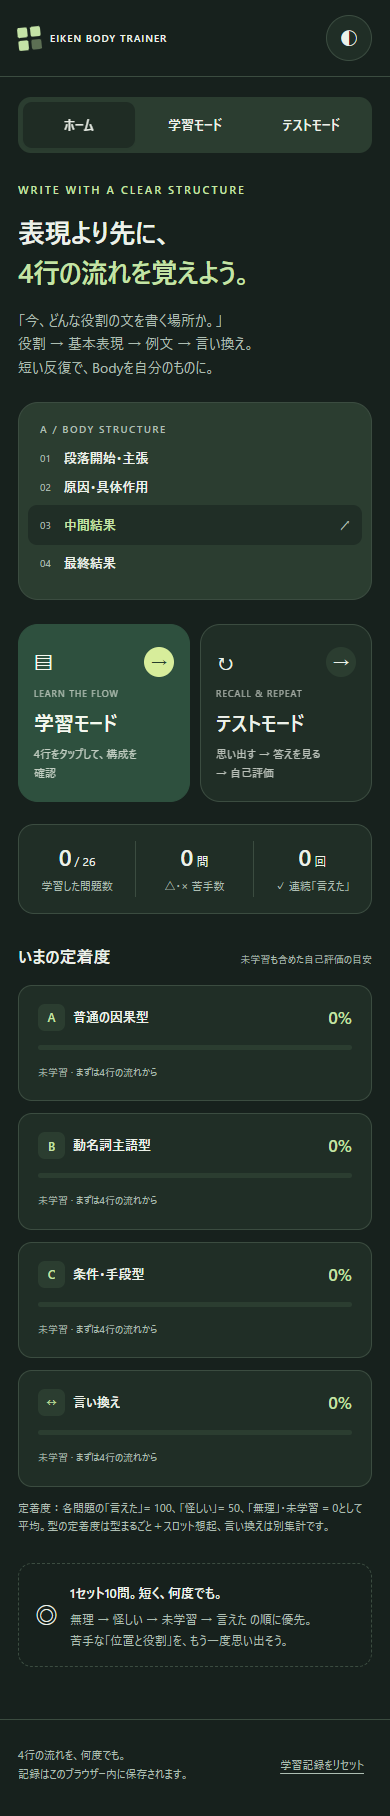
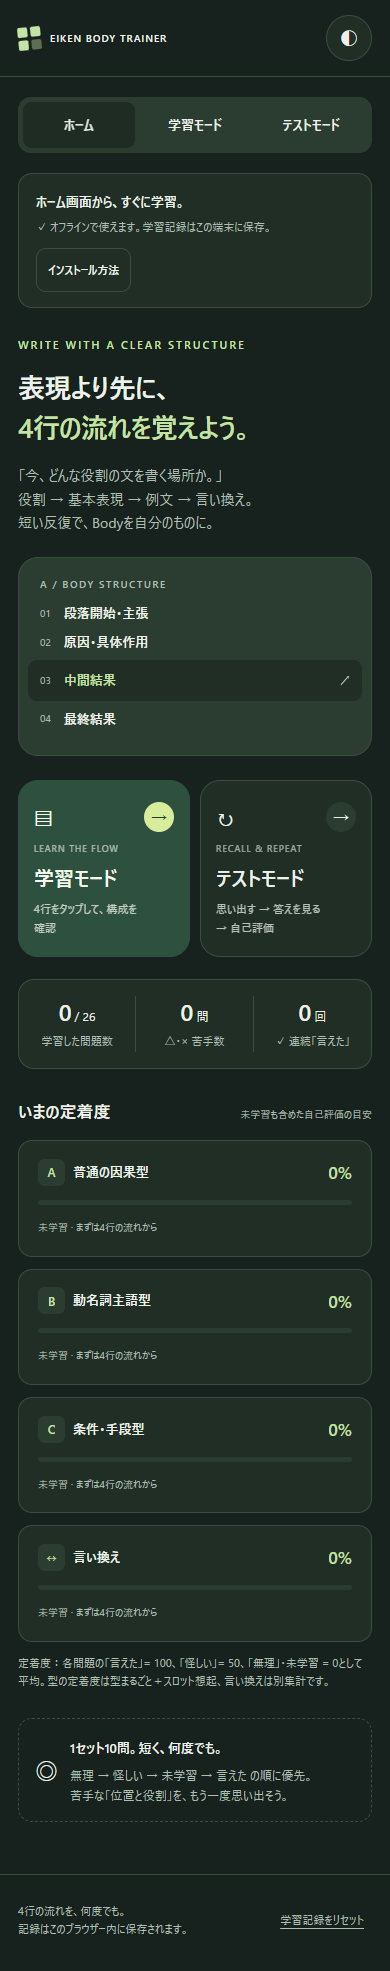
Add installable PWA with offline learning and safe updates

diff --git a/index.html b/index.html
@@ -4,12 +4,19 @@
 <meta charset="utf-8">
 <meta name="viewport" content="width=device-width, initial-scale=1">
 <meta name="color-scheme" content="light dark">
+<meta name="theme-color" content="#355e49">
+<meta name="apple-mobile-web-app-capable" content="yes">
+<meta name="apple-mobile-web-app-title" content="Body Trainer">
+<link rel="manifest" href="./manifest.webmanifest">
+<link rel="icon" type="image/png" href="./icons/icon-192.png">
+<link rel="apple-touch-icon" href="./icons/apple-touch-icon.png">
 <title>EIKEN BODY TRAINER — 役割から、思い出す。</title>
 <style>
 :root{--bg:#f5f6f1;--surface:#fff;--ink:#23372f;--muted:#64746c;--line:#dce3d9;--accent:#355e49;--soft:#eaf0e5;--lime:#d7ed9b;--orange:#bd6733;--shadow:0 8px 28px #24372b06;--danger:#b3423c;--radius:20px;color-scheme:light}
 @media(prefers-color-scheme:dark){:root:not([data-theme=light]){--bg:#17211d;--surface:#202e26;--ink:#ecf1e9;--muted:#adbeb2;--line:#3b4c40;--accent:#c4e3a6;--soft:#2b3d30;--lime:#d7ed9b;--orange:#efb17d;--shadow:none;--danger:#ffaaa3;color-scheme:dark}}
 :root[data-theme=dark]{--bg:#17211d;--surface:#202e26;--ink:#ecf1e9;--muted:#adbeb2;--line:#3b4c40;--accent:#c4e3a6;--soft:#2b3d30;--lime:#d7ed9b;--orange:#efb17d;--shadow:none;--danger:#ffaaa3;color-scheme:dark}
 *{box-sizing:border-box}body{margin:0;background:var(--bg);color:var(--ink);font-family:system-ui,-apple-system,"Segoe UI","Yu Gothic",sans-serif;font-size:15px;line-height:1.7}button,select{font:inherit}button{cursor:pointer;color:inherit}button:disabled{cursor:default;opacity:.5}button:focus-visible,select:focus-visible,summary:focus-visible{outline:3px solid var(--orange);outline-offset:4px}button,select{touch-action:manipulation}button{min-height:46px}button:hover{filter:brightness(.96)}[hidden]{display:none!important}.wrap{max-width:980px;margin:auto;padding:0 28px}header{border-bottom:1px solid var(--line)}.header{display:flex;align-items:center;justify-content:space-between;gap:12px;min-height:89px}.brand{display:flex;gap:12px;align-items:center;font-size:13px;font-weight:800;letter-spacing:1.5px;background:none;border:0;padding:0;text-align:left}.mark{display:grid;grid-template-columns:repeat(2,10px);gap:3px;transform:rotate(-6deg)}.mark i{width:10px;height:10px;border-radius:2px;background:var(--accent)}.mark i:last-child{opacity:.4}.header-end{display:flex;align-items:center;gap:15px}.offline{font-size:11px;letter-spacing:1px;color:var(--muted)}.offline:before{content:'●';color:var(--accent);margin-right:7px}.icon-btn{border:1px solid var(--line);border-radius:50%;width:46px;background:var(--surface);font-size:18px}.navigation{display:flex;gap:4px;background:var(--soft);padding:5px;border-radius:13px;width:fit-content;margin:26px 0 0}.navigation button{border:0;background:transparent;border-radius:9px;padding:7px 23px;font-size:13px;font-weight:650}.navigation button[aria-current=page]{background:var(--surface);box-shadow:0 2px 8px #00000007}main{padding:34px 0 52px}.eyebrow{font-size:11px;font-weight:700;letter-spacing:2px;color:var(--accent);margin:0 0 12px}.hero{display:grid;grid-template-columns:1.45fr 1fr;gap:40px;align-items:center;margin:0 0 30px}.hero h1{font-size:clamp(27px,4.5vw,40px);line-height:1.5;letter-spacing:-1.4px;margin:0 0 16px}.hero h1 span{color:var(--accent)}.muted{color:var(--muted)}.hero p:not(.eyebrow){margin:0;color:var(--muted);font-size:14px}.mini-body{background:var(--soft);border:1px solid var(--line);border-radius:var(--radius);padding:23px 24px;position:relative}.mini-label{font-size:10px;letter-spacing:1.5px;font-weight:700;color:var(--muted);margin-bottom:16px}.mini-line{display:flex;align-items:center;gap:13px;margin:11px 0;font-size:13px}.mini-line span{font-size:10px;color:var(--muted);font-variant-numeric:tabular-nums}.mini-line strong{font-weight:550}.mini-line em{height:8px;background:var(--line);border-radius:5px;width:50%;display:block}.mini-line.active{padding:9px 12px;background:var(--surface);border-radius:9px;margin-inline:-12px}.mini-line.active strong{color:var(--accent)}.section-title{display:flex;align-items:baseline;justify-content:space-between;gap:10px;margin:28px 0 14px}.section-title h2{font-size:17px;margin:0}.section-title span{font-size:12px;color:var(--muted)}.mode-grid{display:grid;grid-template-columns:1fr 1fr;gap:16px}.mode-card{border:1px solid var(--line);border-radius:var(--radius);padding:24px;text-align:left;background:var(--surface);box-shadow:var(--shadow);display:grid;grid-template-columns:1fr auto;gap:5px 16px}.mode-card.primary{background:#2e503e;color:#f5f9ef;border-color:#2e503e}.mode-card .mode-icon{font-size:22px;grid-column:1}.mode-card .kicker{font-size:10px;letter-spacing:1.8px;opacity:.65;grid-column:1}.mode-card strong{font-size:23px;grid-column:1}.mode-card .desc{font-size:13px;opacity:.75;grid-column:1}.mode-card .arrow{grid-column:2;grid-row:1/5;align-self:center;background:var(--soft);border-radius:50%;width:39px;height:39px;display:grid;place-items:center;font-size:20px}.mode-card.primary .arrow{background:var(--lime);color:#263d2d}.stats{display:grid;grid-template-columns:repeat(3,1fr);gap:0;margin:28px 0;border:1px solid var(--line);border-radius:16px;background:var(--surface);padding:18px 0}.stat{text-align:center;border-right:1px solid var(--line)}.stat:last-child{border:0}.stat strong{font-size:25px;font-weight:700;display:block;line-height:1.35}.stat strong small{font-size:12px;font-weight:400;margin-left:3px}.stat span{font-size:11px;color:var(--muted)}.mastery-grid{display:grid;grid-template-columns:repeat(2,1fr);gap:12px}.mastery-card{border:1px solid var(--line);background:var(--surface);border-radius:14px;padding:17px 19px}.mastery-top{display:flex;justify-content:space-between;align-items:center;gap:8px}.mastery-name{font-size:13px;font-weight:600}.letter{display:inline-grid;place-items:center;background:var(--soft);color:var(--accent);width:27px;height:27px;border-radius:7px;margin-right:8px;font-weight:700;font-size:12px}.mastery-top strong{font-size:17px;color:var(--accent)}.bar{height:5px;background:var(--soft);border-radius:5px;overflow:hidden;margin:13px 0 8px}.bar span{height:100%;display:block;background:var(--accent);border-radius:5px}.mastery-card small{font-size:10px;color:var(--muted)}.method{margin:27px 0 0;padding:20px;border:1px dashed var(--line);border-radius:14px;display:flex;gap:18px;align-items:center}.method .big{font-size:23px}.method strong{font-size:13px}.method p{margin:4px 0 0;color:var(--muted);font-size:12px}.page-head{margin-bottom:22px}.page-head h1{font-size:28px;margin:0 0 7px;letter-spacing:-.5px}.page-head p{margin:0;font-size:13px;color:var(--muted)}.pattern{background:var(--surface);border:1px solid var(--line);border-radius:var(--radius);margin-bottom:14px;overflow:hidden;box-shadow:var(--shadow)}.pattern-toggle{width:100%;border:0;background:transparent;display:flex;align-items:center;justify-content:space-between;text-align:left;padding:22px;gap:10px}.pattern-toggle .letter{width:40px;height:40px;font-size:17px;border-radius:11px;margin:0 14px 0 0}.pattern-toggle .title{display:flex;align-items:center}.pattern-toggle strong{font-size:19px}.pattern-toggle small{display:block;font-size:11px;color:var(--muted);font-weight:400}.chevron{color:var(--muted);font-size:22px}.pattern-content{padding:0 22px 23px}.flow{display:flex;align-items:center;gap:8px;flex-wrap:wrap;font-size:12px;background:var(--soft);border-radius:11px;padding:15px;margin:0 0 17px}.flow .flow-number{display:inline-block;font-size:10px;color:var(--muted);margin-right:5px}.flow .flow-arrow{color:var(--muted)}.tools{display:flex;gap:8px;flex-wrap:wrap;margin:16px 0}.btn{border:1px solid var(--line);border-radius:10px;padding:8px 14px;background:var(--surface);font-size:12px;font-weight:600}.btn.solid{background:var(--accent);color:var(--bg);border-color:var(--accent)}.slot{border:1px solid var(--line);border-radius:12px;margin-top:10px;overflow:hidden}.slot-toggle{display:block;background:transparent;width:100%;border:0;text-align:left;padding:16px 18px}.slot-label{display:flex;justify-content:space-between;gap:8px;align-items:center;font-size:12px;font-weight:650}.slot-label .number{color:var(--muted);margin-right:8px;font-variant-numeric:tabular-nums}.slot-label .toggle-symbol{font-size:18px;font-weight:400;color:var(--muted)}.answer-prompt{display:block;color:var(--muted);font-size:13px;margin-top:12px;border:1px dashed var(--line);border-radius:8px;padding:10px 13px;background:var(--bg)}.english{font-family:Georgia,"Times New Roman",serif;font-size:23px;line-height:1.55;overflow-wrap:anywhere}.slot-toggle .english{display:block;margin-top:9px;color:var(--accent);animation:appear .15s ease-out}.slot-details{padding:0 18px 17px}.detail-buttons{display:flex;gap:7px;flex-wrap:wrap}.detail-buttons button{font-size:11px;min-height:44px;padding:7px 11px;font-weight:500}.detail-buttons button[aria-expanded=true]{background:var(--soft);border-color:var(--accent)}.detail-content{font-size:13px;margin-top:13px;padding:14px;background:var(--bg);border-radius:9px;animation:appear .15s ease-out}.detail-content p{margin:0 0 10px}.detail-content p:last-child{margin-bottom:0}.detail-content .english{font-size:20px}.context-label{font-size:11px;font-weight:600;color:var(--muted);margin-bottom:9px}.note{font-size:12px;color:var(--muted);border-left:3px solid var(--orange);padding-left:10px;margin-top:12px!important}.test-controls{display:flex;gap:10px;justify-content:space-between;align-items:center;flex-wrap:wrap;margin:0 0 18px}.test-filters{display:flex;gap:6px;flex-wrap:wrap}.test-filters button[aria-pressed=true]{background:var(--accent);color:var(--bg);border-color:var(--accent)}select{border:1px solid var(--line);background:var(--surface);color:var(--ink);border-radius:10px;padding:10px;font-size:12px;min-height:46px;max-width:100%}.test-meta{display:flex;justify-content:space-between;align-items:center;font-size:11px;color:var(--muted);gap:10px;margin:0 0 13px}.test-meta .counter{font-variant-numeric:tabular-nums;font-weight:700}.session-bar{height:4px;background:var(--line);margin:0 0 21px;border-radius:5px;overflow:hidden}.session-bar span{display:block;height:100%;background:var(--accent)}.test-card{padding:26px;border:1px solid var(--line);border-radius:var(--radius);background:var(--surface)}.test-card h2{font-size:20px;margin:0 0 15px}.test-card .instruction{font-size:14px;margin:18px 0}.question-lines{display:grid;gap:10px;margin:17px 0}.context-row{display:flex;gap:13px;padding:9px 0;align-items:baseline}.context-row .idx{color:var(--muted);font-size:11px;flex:0 0 18px}.context-row .english{font-size:21px}.blank{display:block;width:100%;border:1px dashed var(--accent);background:var(--soft);border-radius:10px;padding:14px;color:var(--accent);font-size:13px}.reveal-btn{width:100%;min-height:60px;border:1px dashed var(--accent);border-radius:12px;background:var(--soft);color:var(--accent);font-weight:600;font-size:14px;margin-top:15px}.test-answer{border-top:1px solid var(--line);margin-top:21px;padding-top:19px;animation:appear .15s ease-out}.test-answer p{margin:8px 0}.test-answer .english{color:var(--accent)}.rating-label{font-size:12px;color:var(--muted);margin:23px 0 9px}.ratings{display:grid;grid-template-columns:repeat(3,1fr);gap:9px}.ratings button{border:1px solid var(--line);background:var(--bg);border-radius:11px;min-height:56px;font-weight:650;font-size:14px}.ratings button:first-child{background:var(--soft);color:var(--accent)}.ratings button:last-child{color:var(--danger)}.test-tip{text-align:center;font-size:11px;color:var(--muted);margin-top:18px}.completion{text-align:center;padding:35px 10px}.completion .medal{font-size:40px}.completion h2{font-size:23px}.completion .tools{justify-content:center}.feedback{font-size:12px;color:var(--accent);min-height:25px;margin:12px 0 0}.warning{background:var(--soft);border:1px solid var(--orange);border-radius:10px;padding:12px;font-size:12px;margin:20px 0;color:var(--ink)}footer{border-top:1px solid var(--line);padding:22px 0 28px;color:var(--muted);font-size:11px}.footer-content{display:flex;justify-content:space-between;align-items:center;gap:12px;flex-wrap:wrap}.reset-btn{border:0;background:none;color:var(--muted);font-size:11px;text-decoration:underline;text-underline-offset:4px;padding:8px}.fine{font-size:11px;color:var(--muted);margin-top:12px}.sr-only{position:absolute;width:1px;height:1px;padding:0;margin:-1px;overflow:hidden;clip:rect(0,0,0,0);white-space:nowrap;border:0}@keyframes appear{from{opacity:.25}to{opacity:1}}@media(prefers-reduced-motion:reduce){*{animation:none!important}}@media(max-width:640px){.wrap{padding:0 18px}.header{min-height:76px}.brand{font-size:10px;letter-spacing:1px;gap:9px}.offline{display:none}.header-end{gap:6px}.navigation{margin-top:20px;width:100%}.navigation button{flex:1;padding:7px 8px}.hero{grid-template-columns:1fr;gap:22px;margin-bottom:24px}.hero h1{letter-spacing:-.8px}.mini-body{padding:18px 21px}.mini-label{margin-bottom:9px}.mini-line{margin:7px 0}.mode-grid{gap:10px}.mode-card{padding:18px 15px;gap:5px}.mode-card strong{font-size:20px}.mode-card .desc{font-size:11px}.mode-card .arrow{grid-row:1;width:30px;height:30px;font-size:17px}.mode-card .kicker{font-size:9px;letter-spacing:1px}.mastery-grid{grid-template-columns:1fr}.stats{margin:22px 0;padding:16px 0}.stat strong{font-size:23px}.section-title span{font-size:10px}.pattern-toggle{padding:18px 15px}.pattern-toggle strong{font-size:17px}.pattern-content{padding:0 14px 18px}.flow{gap:7px;padding:12px;font-size:11px}.slot-toggle{padding:15px 13px}.slot-details{padding:0 13px 15px}.english{font-size:22px}.test-card{padding:19px 15px}.context-row .english{font-size:20px}.test-controls{gap:12px}.test-filters .btn{padding:7px 10px;font-size:11px}.ratings{gap:7px}.ratings button{font-size:13px}.method{padding:16px;gap:12px}.page-head h1{font-size:25px}main{padding-top:28px}.test-card h2{font-size:18px}}
+.pwa-panel{margin-top:20px;padding:15px 17px;border:1px solid var(--line);border-radius:14px;background:var(--surface);display:flex;flex-wrap:wrap;gap:12px;align-items:center;justify-content:space-between}.pwa-panel strong{font-size:13px}.pwa-panel p{font-size:11px;color:var(--muted);margin:3px 0 0}.pwa-help{width:100%;border-top:1px solid var(--line);padding-top:10px}.pwa-help p{font-size:12px}
 </style>
 </head>
 <body>
@@ -17,6 +24,7 @@
 <div class="wrap"><nav class="navigation" aria-label="メインメニュー"><button data-action="navigate" data-view="home" aria-current="page">ホーム</button><button data-action="navigate" data-view="study">学習モード</button><button data-action="navigate" data-view="test">テストモード</button></nav><div id="storage-warning" class="warning" role="status" hidden></div><main id="main"></main></div>
 <footer><div class="wrap"><div class="footer-content"><span>4行の流れを、何度でも。<br>記録はこのブラウザー内に保存されます。</span><button class="reset-btn" data-action="reset">学習記録をリセット</button></div></div></footer>
 <div id="announcement" class="sr-only" aria-live="polite" aria-atomic="true"></div>
+<template id="pwa-template"><section class="pwa-panel" aria-label="アプリのインストール"><div><strong>ホーム画面から、すぐに学習。</strong><p id="pwa-status" role="status">オフラインの準備中…</p></div><div class="detail-buttons"><button class="btn" id="pwa-install" aria-expanded="false" aria-controls="pwa-help">インストール方法</button><button class="btn" id="pwa-update" hidden>最新版に更新</button></div><div class="pwa-help" id="pwa-help" hidden><p>Android・Galaxy Tab：Chromeで開き、メニュー（⋮）から「アプリをインストール」または「ホーム画面に追加」。</p><p>iPhone・iPad：Safariの共有メニューから「ホーム画面に追加」。PC：ブラウザーのアドレスバーにあるインストールアイコンを選択。</p><p>「オフラインで使えます」と表示されてから閉じてください。</p></div></section></template>
 <script>
 'use strict';
 const PATTERNS = [
@@ -74,6 +82,28 @@ document.addEventListener('click',e=>{const b=e.target.closest('button[data-acti
 document.addEventListener('change',e=>{if(e.target.id==='pattern-filter'){patternFilter=e.target.value;startSession();render();$('#pattern-filter').focus({preventScroll:true});}});
 $('#theme').addEventListener('click',()=>{const dark=document.documentElement.dataset.theme?document.documentElement.dataset.theme==='dark':matchMedia('(prefers-color-scheme:dark)').matches;document.documentElement.dataset.theme=dark?'light':'dark';announce(dark?'ライトモード':'ダークモード');});
 render();
+// file://でも学習本体は動く。PWAはHTTPSまたはlocalhostでのみ有効。
+if ('serviceWorker' in navigator && window.isSecureContext && /^https?:$/.test(location.protocol)) {
+  $('#storage-warning').after($('#pwa-template').content.cloneNode(true));
+  let installPrompt=null,registration=null,updating=false;
+  const installed=()=>matchMedia('(display-mode: standalone)').matches||navigator.standalone===true;
+  const installButton=$('#pwa-install');
+  installButton.hidden=installed();
+  window.addEventListener('beforeinstallprompt',e=>{e.preventDefault();installPrompt=e;if(!installed()){installButton.hidden=false;installButton.textContent='ホーム画面に追加';}});
+  window.addEventListener('appinstalled',()=>{installPrompt=null;installButton.hidden=true;$('#pwa-help').hidden=true;});
+  installButton.addEventListener('click',async()=>{
+    if(installPrompt){const prompt=installPrompt;installPrompt=null;try{await prompt.prompt();await prompt.userChoice;}catch(e){$('#pwa-help').hidden=false;}installButton.textContent='インストール方法';}
+    else {const help=$('#pwa-help');help.hidden=!help.hidden;installButton.setAttribute('aria-expanded',String(!help.hidden));}
+  });
+  function offerUpdate(){if(registration?.waiting)$('#pwa-update').hidden=false;}
+  $('#pwa-update').addEventListener('click',()=>{if(!registration?.waiting)return;updating=true;$('#pwa-update').disabled=true;registration.waiting.postMessage({type:'ACTIVATE_UPDATE'});});
+  navigator.serviceWorker.addEventListener('controllerchange',()=>{if(updating)location.reload();});
+  navigator.serviceWorker.register('./sw.js',{scope:'./',updateViaCache:'none'}).then(reg=>{
+    registration=reg;offerUpdate();
+    reg.addEventListener('updatefound',()=>{const worker=reg.installing;worker?.addEventListener('statechange',()=>{if(worker.state==='installed')offerUpdate();});});
+    return navigator.serviceWorker.ready;
+  }).then(()=>{$('#pwa-status').textContent='✓ オフラインで使えます。学習記録はこの端末に保存。';}).catch(()=>{$('#pwa-status').textContent='オフラインの準備ができませんでした。通信できる状態で再読み込みしてください。';});
+}
 </script>
 </body>
 </html>

diff --git a/sw.js b/sw.js
@@ -1,0 +1,29 @@
+'use strict';
+// Bump VERSION when deploying changes to the offline app shell.
+const VERSION = 'v1';
+const PREFIX = 'eiken-body-trainer:' + self.registration.scope + ':';
+const CACHE = PREFIX + VERSION;
+const base = self.registration.scope;
+const assets = ['index.html','manifest.webmanifest','icons/icon-192.png','icons/icon-512.png','icons/apple-touch-icon.png'].map(p=>new URL(p,base).href);
+const shell = assets[0];
+self.addEventListener('install',event=>{
+  event.waitUntil(caches.open(CACHE).then(cache=>cache.addAll(assets.map(url=>new Request(url,{cache:'reload'})))));
+});
+self.addEventListener('activate',event=>{
+  event.waitUntil((async()=>{
+    for(const key of await caches.keys())if(key.startsWith(PREFIX)&&key!==CACHE)await caches.delete(key);
+    await self.clients.claim();
+  })());
+});
+self.addEventListener('message',event=>{if(event.data?.type==='ACTIVATE_UPDATE')self.skipWaiting();});
+self.addEventListener('fetch',event=>{
+  const req=event.request,url=new URL(req.url);
+  if(req.method!=='GET'||url.origin!==new URL(base).origin)return;
+  const isHome=req.mode==='navigate'&&(url.pathname===new URL(base).pathname||url.pathname===new URL(shell).pathname);
+  if(isHome){
+    // Keep each offline version coherent; fetch updates through the worker lifecycle.
+    event.respondWith(caches.open(CACHE).then(async cache=>(await cache.match(shell))||fetch(req)));
+  }else if(assets.includes(url.href)){
+    event.respondWith(caches.open(CACHE).then(async cache=>(await cache.match(req))||fetch(req)));
+  }
+});

diff --git a/README.md b/README.md
@@ -4,11 +4,23 @@
 
 公開サイト: [EIKEN BODY TRAINER](https://neuralequation.github.io/essay/)
 
-GitHub Pagesで配信します。公開サイトでも学習記録はブラウザー内だけに保存されます。通信なしで起動する場合は `index.html` を端末に保存して使用してください。
+GitHub Pagesで配信するPWAです。公開サイトでも学習記録はブラウザー内だけに保存されます。
+
+## ホーム画面に追加・オフライン利用
+
+公開サイトを通信できる状態で開き、「オフラインで使えます」の表示を確認してください。その後は、ページを閉じて開き直してもオフラインで学習できます。
+
+- Android / Galaxy Tab：Chromeのメニュー（⋮）→「アプリをインストール」または「ホーム画面に追加」。アプリ内の追加ボタンが表示される場合は、それも使用できます。
+- iPhone / iPad：Safariの共有メニュー→「ホーム画面に追加」。
+- PC：Chrome / Edgeのアドレスバーのインストールアイコン。
+
+PWA版は `index.html`、`manifest.webmanifest`、`sw.js`、`icons/` で構成します。GitHub Pagesの `/essay/` 配下だけを対象に、画面・教材・アイコンをキャッシュします。更新がある場合は「最新版に更新」を押すと再読み込みします。学習記録は保持します。更新時は `sw.js` のVERSIONを変更してください。
+
+初回アクセスには通信が必要です。ブラウザーのサイトデータを消すと、オフライン用データと学習記録も消えます。実機でのインストール操作は未確認です。
 
 ## 開き方
 
-アプリ本体は `index.html` だけです。CSS・JavaScript・教材をすべて埋め込み、外部フォント・ライブラリ・API・通信を使用していません。`index.html` をブラウザーで直接開ける構成です。
+学習本体のCSS・JavaScript・教材は `index.html` に埋め込んでいます。外部フォント・ライブラリ・APIは使いません。PWAの準備には同じサイトの補助ファイルだけを読み込みます。直接ファイルで開く場合はPWAを登録せず、従来の学習機能を使える構成です。
 
 ローカルHTTPで開く場合は、このフォルダーで次を実行し、ブラウザーで <http://127.0.0.1:5173/> を開いてください。
 
@@ -57,7 +69,9 @@ python -m http.server 5173 --bind 127.0.0.1
 
 ## 確認結果
 
-2026-10-01、インストール済みChromeをPlaywrightから起動し、ローカルHTTP上で14項目を確認しました。実行結果は `verification-results.json`、再実行用スクリプトは `verify.cjs`、画面は `preview-*.png` です。これらの補助ファイルはアプリの利用には不要です。
+2026-10-02、インストール済みChromeをPlaywrightから起動し、ローカルHTTP上で学習機能の14項目を再確認しました。実行結果は `verification-results.json`、再実行用スクリプトは `verify.cjs`、画面は `preview-*.png` です。これらの補助ファイルはアプリの利用には不要です。
+
+PWAはGitHub Pagesと同じ `/essay/` のパスで5項目を確認しました：Service Worker有効化と全アセットのキャッシュ、manifest・アイコン・Chromeのインストール条件、オフラインでのページ開き直しと進捗保存、インストール説明の操作、ユーザー操作による更新と進捗・他アプリのキャッシュ保持。結果は `pwa-verification-results.json`、再実行は `node verify-pwa.cjs` です。実機でのインストール・OSからの起動は未確認です。
 
 | 要件 | 結果 |
 | --- | --- |
